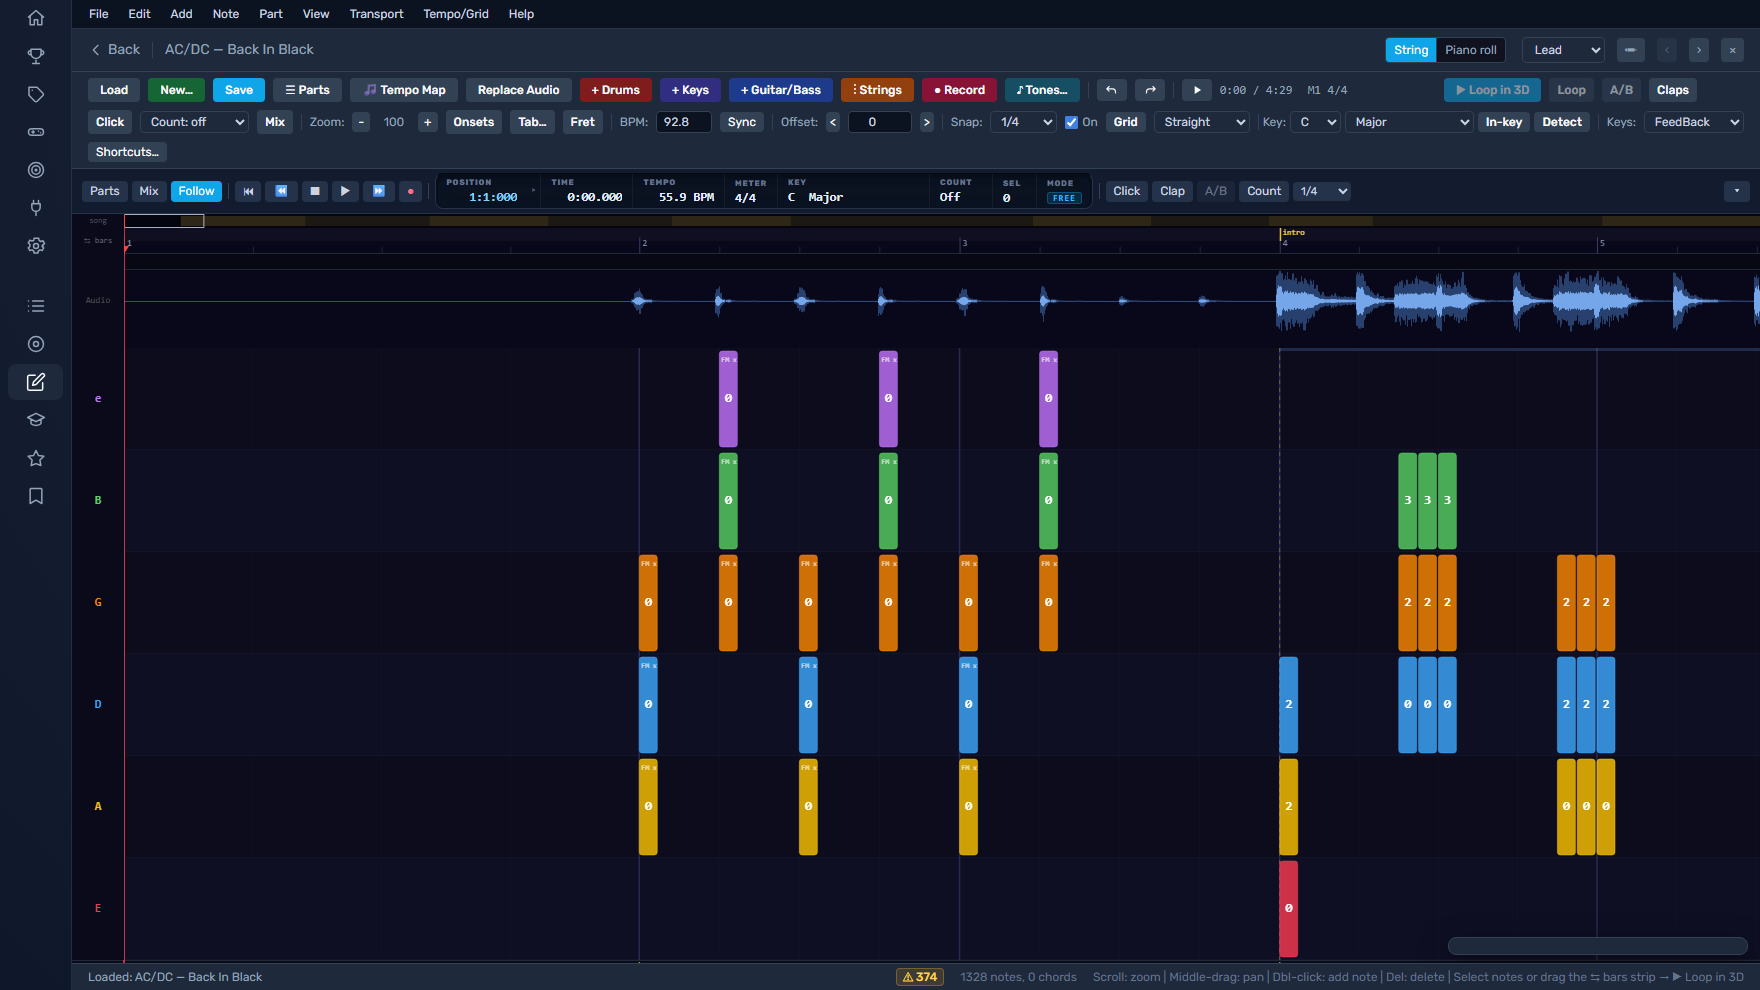
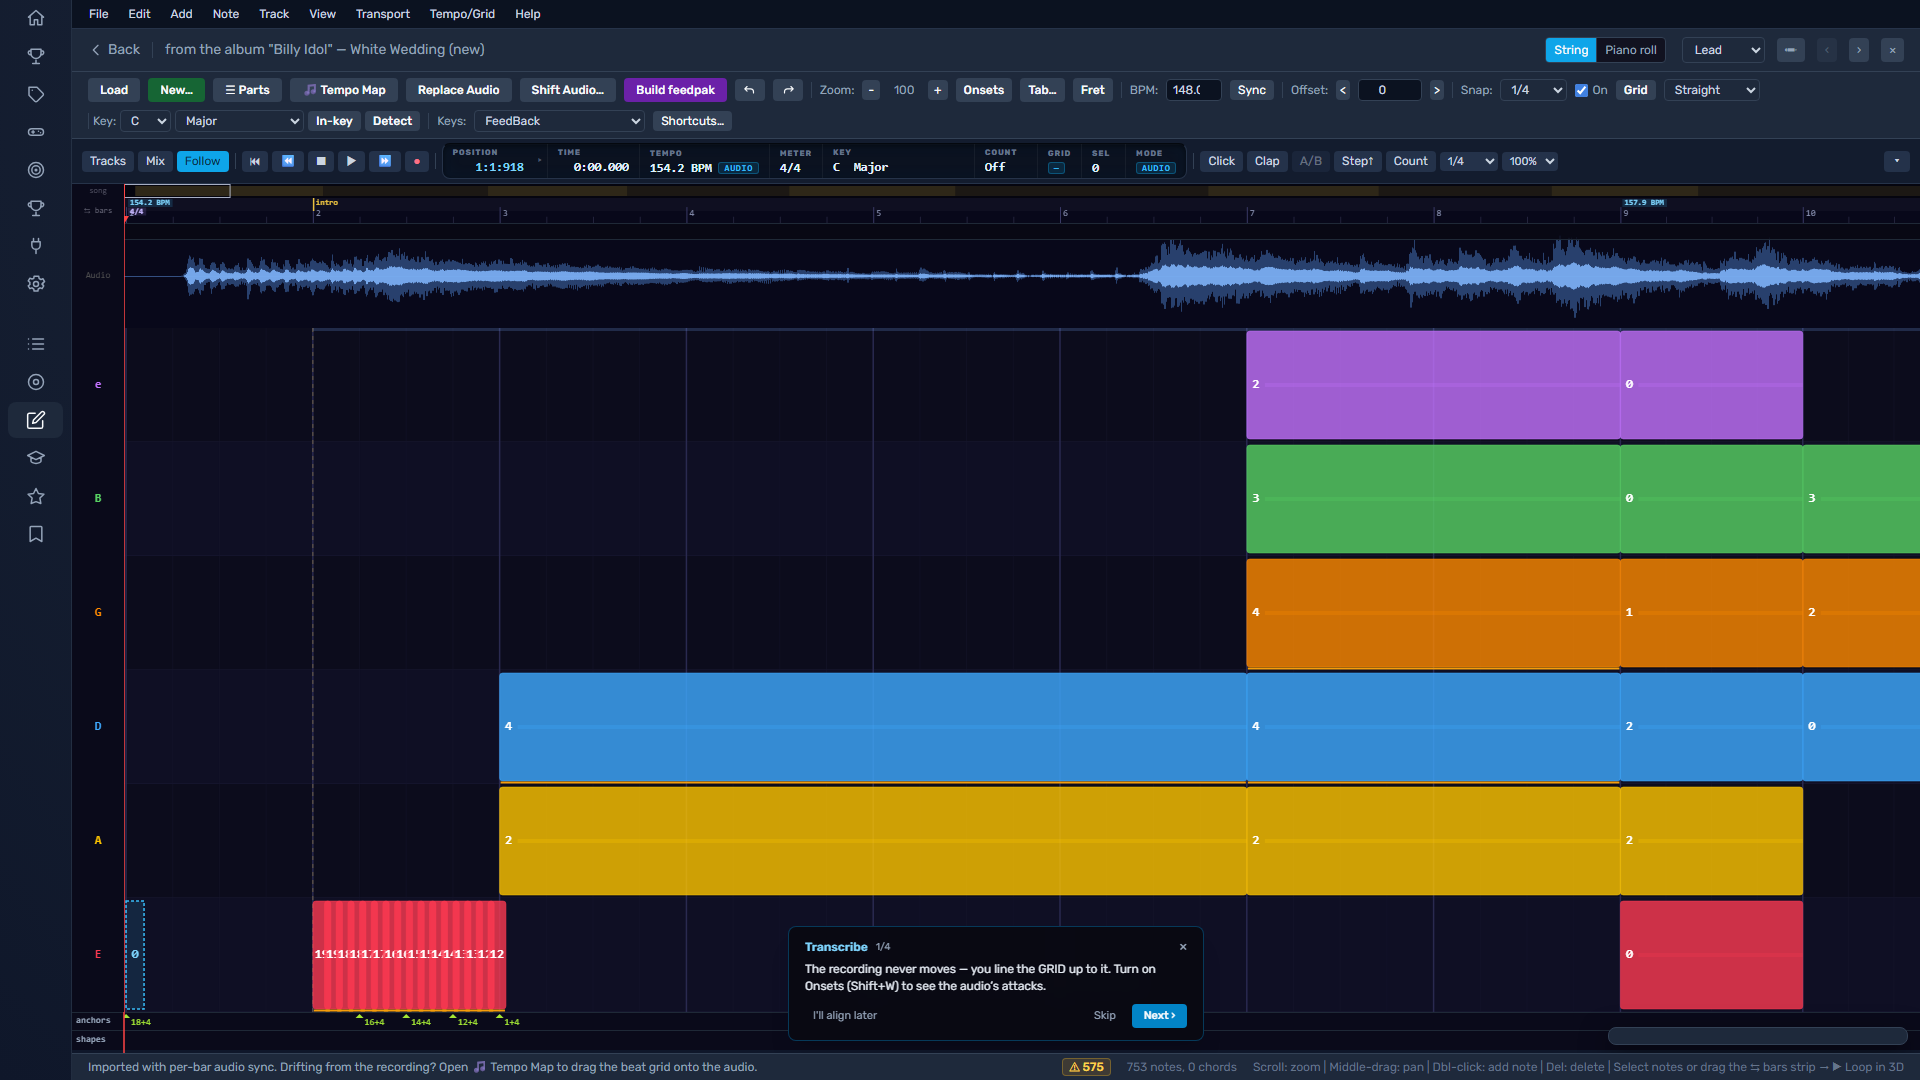
docs: the guide walks the whole feedpak journey — fresh screenshots, README landing page (#304)
* docs: the guide walks the whole feedpak journey — fresh screenshots, README landing page

Help ▸ User Guide restructured around the start-to-finish story:

- A six-step journey map up top (start → grid → notes → tracks → hear it
  → save/build), each step pointing at its section.
- §1 "Start a project" now showcases EVERY on-ramp: the start landing
  (Load vs Create New), all audio formats + YouTube, GP3-GP8 / MIDI /
  arrangement XML / feedpak-archive imports, audio+chart auto-sync (the
  recommended start), blank-canvas + arrangement chips, and the
  after-creation doors — File ▸ Import, Add ▸ Drums / Record MIDI,
  MusicXML keys (with authored hands), the stem manager, GoPlayAlong.
  Plus the MusicBrainz metadata helpers.
- §9 becomes "Save and build — the finish line": first-save picker,
  Build feedpak, what the pack carries, and a four-point pre-flight
  checklist.
- §10 shortcut table: the stale `T = Tempo Map` row corrected to the
  tool palette (`T,T` = Tempo Map).
- Fresh screenshots captured from current main against a real project
  (a stem + Guitar Pro import, per-bar audio sync): landing.png (new),
  import.png, workspace.png, notes.png. tempomap.png / drums.png kept
  (those views are unchanged).

README rewritten as the repo landing page: hero screenshot, User Guide
link before the contributor content, and a "What it does" that matches
what actually shipped (start-from-anything + auto-sync, tool palette +
[…]

diff --git a/docs/USER-GUIDE.md b/docs/USER-GUIDE.md
@@ -15,35 +15,68 @@ profiles in **Help ▸ Shortcut profile** or the shortcut panel (`?`).
 
 ![The Song Editor loaded with a song: the menu bar and toolbars up top, the timeline (waveform and colored note blocks per string) in the middle, the transport and inspector around it.](../assets/guide/workspace.png)
 
+**The whole journey, at a glance** — a feedpak goes from nothing to playable in
+six steps, and this guide follows them in order:
+
+1. **Start** (§1) — create a project from a recording, an existing chart, or both.
+2. **Line up the grid** (§6) — the tempo map fits bars and beats to the recording.
+3. **Chart the notes** (§4) — place, edit, and mark up every note and technique.
+4. **Build out the tracks** (§5, §7) — more parts, keys with hands, drums, studio stems.
+5. **Hear it** (§3) — guide claps, the metronome, loops, and the mixer console.
+6. **Save and build** (§9) — `Ctrl+S` while you work; **Build** writes the `.feedpak`.
+
 ---
 
 ## 1. Start a project
 
-You begin one of two ways:
+Opening the editor with nothing loaded lands you at the front door:
 
-- **From a recording** — open the editor, load an audio file, and you get an
-  empty timeline over the waveform. Set the tempo grid (Section 6) and start
-  placing notes.
-- **From an import** — bring in an existing chart and edit it. The editor reads
-  **Guitar Pro** (GP3–GP8), **MIDI** (with its tempo map), community
-  **arrangement XML**, **GoPlayAlong** sync sidecars, and existing
-  **`.feedpak`** / archive files. Every format normalizes into the same internal
-  model, so editing works the same regardless of where a chart came from.
+![The Song Editor start screen: Load an existing feedpak to edit, or Create New.](../assets/guide/landing.png)
 
-In **New…**, use **Add File** for audio, Guitar Pro, MIDI, or XML. Every audio
-source and every chart track appears in one table. Check the tracks to import,
-then choose one audio row in **Guide** as the recording the tempo map
-follows. You can add several audio files; they remain separate source tracks.
-The YouTube field adds another possible audio source.
+**Load…** opens a feedpak from your library to edit. **Create New** starts a
+project — and it takes almost anything as a starting point:
 
-![The Create New Arrangement dialog: add session files, review every imported track in one table, and choose a Guide audio source.](../assets/guide/import.png)
+- **A recording** — drop in an audio file (**MP3, WAV, FLAC, OGG, M4A, OPUS,
+  AAC, WEM**) or paste a **YouTube URL**. You get a timeline over the
+  waveform: set the grid (§6) and chart from scratch.
+- **An existing chart** — **Guitar Pro (GP3–GP8)**, **MIDI** (its tempo map
+  comes along), community **arrangement XML**, or an existing
+  **`.feedpak`/archive**. Every format normalizes into one internal model, so
+  editing works the same wherever the chart came from.
+- **Both at once** — the recommended start. Add one audio file *and* a chart
+  file; **auto-sync** then lines the imported chart up to the recording bar
+  by bar, so you begin from a chart that already follows the take instead of
+  a straight metronomic grid.
+- **Nothing at all** — pick your arrangements from the chips (Lead / Rhythm /
+  Bass / Keys / Drums…) and start with an empty timeline.
 
-Import lives under the **File** menu (Import ▸ …). MIDI and XML/GP imports keep
-their note data; a GoPlayAlong sidecar brings bar→time sync points only (no
-notes) — useful for lining a grid up fast.
+Everything you add lands in one table: every audio source and every track
+inside every chart file, each with its instrument and note count. Check the
+tracks you want as arrangements, and pick one audio row as the **Guide** —
+the recording the tempo map follows. Extra audio files stay available as
+separate source tracks.
+
+![The Create New Arrangement dialog: arrangement chips, a master audio and a Guitar Pro chart staged for import, the track table, and song details auto-filled.](../assets/guide/import.png)
+
+Song details (title, artist, album, art) auto-fill from the import where they
+can — **Find cover…**, **Identify from audio…**, and **Match…** fill in the
+rest from MusicBrainz. Then hit **Create & Open in Editor**.
+
+A few sources arrive through their own doors, any time after creation:
+
+- **File ▸ Import** — bring another GP / MIDI / XML chart into the open project.
+- **Add ▸ Track** — add **Drums** (from a chart or by hand) or **Record
+  MIDI** (play a take on a connected device; it becomes a keys track).
+- **Add Keys ▸ MusicXML** — a MusicXML score imports as a keys track and
+  keeps the score's own **left/right hand** assignments (§5).
+- **Studio stems** — after creating, load per-instrument stems (vocals,
+  bass, drums…) through the stem manager (§5) for isolated listening and
+  per-stem charting.
+- A **GoPlayAlong** sidecar brings bar→time sync points only (no notes) —
+  useful for lining a grid up fast.
 
 > **Autosave is not a thing.** Nothing touches your library until you **Build**
-> (Section 10). Save early with `Ctrl+S`.
+> (§9). Save early with `Ctrl+S`.
 
 ---
 
@@ -303,13 +336,28 @@ These live in the **Add** menu (Markers) and show in the inspector when selected
 
 ---
 
-## 9. Save and build
+## 9. Save and build — the finish line
 
-- **`Ctrl+S`** saves your working session.
-- **Build** assembles the finished **`.feedpak`** through the host's core
-  libraries and writes it to your library — this is the only step that changes
-  what the rest of the app sees. Build once the grid fits, the notes are placed,
-  and playback (guide claps against the recording) sounds right.
+- **`Ctrl+S`** saves your working session. For an exportable packed song, the
+  first save can ask where to keep an external copy when your browser supports
+  a file picker; otherwise it saves straight to the library. Later saves reuse
+  the chosen location.
+- **Build feedpak** (the toolbar button, or File ▸ Build feedpak) assembles
+  the finished **`.feedpak`** through the host's core libraries and writes it
+  to your library — this is the only step that changes what the rest of the
+  app sees. The pack carries everything you authored: every arrangement,
+  the tempo map, sections and phrases, techniques, keys notation with its
+  hand split, stems, tones, and art.
+
+**Ready to build?** A quick pre-flight:
+
+1. The grid follows the recording (§6) — the Map Health pill isn't complaining.
+2. Guide claps (`C`) against the recording sound tight where it matters.
+3. The lint flags you care about are addressed (they *advise*, never block).
+4. Song details are filled (title, artist, art) — they're the library card.
+
+Build again any time — rebuilding replaces the pack, and your working session
+stays editable.
 
 **Undo/redo is the safety net.** Every edit — including tempo moves, offset, and
 imports — is undoable (`Ctrl+Z` / `Ctrl+Y`). If something looks wrong, undo it.
@@ -329,7 +377,7 @@ you'll reach for constantly (FeedBack profile):
 | `F` | Edit fret | `0`–`9` | Set fret |
 | `↑` / `↓` | Move string | `Shift+↑`/`↓` | Move, keep pitch |
 | `Shift+R` | Resnap selection to grid | `Ctrl+D` | Duplicate selection |
-| `T` | Tempo Map mode | `W` | Show/hide waveform |
+| `T` | Tool palette (`T,T` = Tempo Map) | `W` | Show/hide waveform |
 | `Alt+B` | Loop A/B (audio ↔ guide) | `Shift+L` | Follow playhead |
 | `Shift+M` | Add section | `Shift+F` | Set anchor |
 

diff --git a/README.md b/README.md
@@ -1,36 +1,58 @@
 # Arrangement Editor
 
 The **Song Editor** plugin for [feedBack](https://github.com/got-feedback/feedback)
-(plugin id `editor`) — a DAW-style timeline editor for building and editing
-feedpak arrangements: import Guitar Pro tabs, MIDI, or community XML; sync a
-chart to a recording; author and tune every note; and build the result back
-into a `.feedpak` package the rest of the ecosystem plays.
+(plugin id `editor`) — a DAW-style timeline editor that turns a recording into
+a playable feedBack chart: import a tab or start from audio, line the grid up
+to the take, author every note, and build a `.feedpak` the whole ecosystem
+plays.
+
+![The Song Editor: waveform, beat grid, and a synced Guitar Pro chart on the string lanes.](assets/guide/workspace.png)
+
+**New here?** The **[User Guide](docs/USER-GUIDE.md)** (also in-app under
+Help ▸ User Guide) walks the whole journey — create a project from a
+recording, a chart, or both; fit the tempo map; chart the notes; add tracks,
+stems, and drums; mix; and build the finished feedpak.
 
 It is the largest plugin in the ecosystem. If you are here to work on it,
 read this top-to-bottom once — the architecture section saves real time.
 
 ## What it does
 
-- **Import** — Guitar Pro (GP3–GP8), MIDI (with tempo-map import), community
-  arrangement XML, MusicXML-adjacent sources, GoPlayAlong sync sidecars, and
-  existing `.feedpak`/archive files, all normalized into one internal model.
-- **Edit** — a canvas timeline with per-part views: String view (lanes per
-  string), a piano roll (with resolver-assisted fretted authoring), a drum
-  piece-lane grid, and a read-only engraved tab preview. Undo/redo is the
-  edit contract: every mutation is a command with exec/rollback.
+- **Start from anything** — audio (MP3/WAV/FLAC/OGG/M4A/OPUS/AAC/WEM, or a
+  YouTube URL), Guitar Pro (GP3–GP8), MIDI (tempo map included), community
+  arrangement XML, MusicXML keys scores, GoPlayAlong sync sidecars, existing
+  `.feedpak`/archive files — or a blank timeline. Audio + chart together get
+  **auto-sync**: the imported chart lines up to the recording bar by bar.
+- **Edit like a DAW** — a canvas timeline with per-part views: String view
+  (lanes per string), a piano roll (with resolver-assisted fretted
+  authoring), a drum piece-lane grid, and a live engraved tab/score view.
+  A Logic-style **tool palette** (`T`: pointer, pencil/draw, eraser, marquee,
+  mute, scissors), four **shortcut profiles** (FeedBack / Logical / Cableton /
+  Legacy-EOF), a searchable command palette (`Ctrl+K`), and a customizable
+  canvas (grid strength, brightness, hue). Undo/redo is the edit contract:
+  every mutation is a command with exec/rollback.
 - **Time** — a beat-primary tempo map (`beatOf`/`timeOf` over one anchor
   set): Tempo Map mode fits the grid to a recording (sync points, tap tempo,
-  metric modulation, beat-lock), snap rides the same converter (grid, onset,
-  swing), and loop regions/bookmarks/count-in ride the transport.
-  The authoritative musical ruler fits bars and beats to fixed source audio;
-  authored musical content aligns through that ruler. See
+  metric modulation, beat-lock, assisted mapping, Map Health), snap rides the
+  same converter (grid, onset, swing), and loop regions/bookmarks/count-in
+  ride the transport. The authoritative musical ruler fits bars and beats to
+  fixed source audio; authored musical content aligns through that ruler. See
   [`docs/TEMPO-MAPPING-DESIGN.md`](docs/TEMPO-MAPPING-DESIGN.md) for the four
   timing domains, marker model, assisted mapping, and audition-speed rules.
-- **Companion strips** — a fretboard strip for fretted parts (candidate
-  positions from the suggest-position resolver, click to assign) and a drum
-  kit / pad strip for drum parts (GM-mapped, MIDI-monitor capable).
-- **Advisory lints** — drum limb feasibility and fretted playability checks
-  that name physical questions without ever blocking or auto-fixing.
+- **Tracks, stems, and the mixer** — tracks are first-class objects in a
+  persistent track column: rename, reorder, fold into folders, pair a
+  transcription with the studio stem it was charted against. Load
+  per-instrument **stems** and chart against any of them in isolation. The
+  **mixer console** (`Shift+C`) is vertical channel strips with live meters
+  over SOURCE/GUIDE/CLICK buses and a MASTER output — every fader unity with
+  +10 dB of headroom.
+- **Keys with hands** — MusicXML imports keep the score's left/right hand
+  split; hands are authorable per note or stamped by split point, shaded on
+  the roll, and drive the grand-staff notation's hand split.
+- **Companion strips & lints** — a fretboard strip for fretted parts
+  (candidate positions from the suggest-position resolver, click to assign),
+  a drum kit / pad strip (GM-mapped, MIDI-monitor capable), and advisory
+  playability/limb lints that name physical questions without ever blocking.
 - **Build** — assembles the finished `.feedpak` through the host's core
   libraries, so output packages are compatible everywhere.
 

diff --git a/CHANGELOG.md b/CHANGELOG.md
@@ -7,6 +7,20 @@ and this project adheres to [Semantic Versioning](https://semver.org/spec/v2.0.0
 
 ## [Unreleased]
 
+### Changed
+
+- **Docs refresh — the guide walks the whole journey.** The User Guide
+  (Help ▸ User Guide) opens with a six-step journey map, and §1 now showcases
+  every way to start a feedpak (audio formats + YouTube, GP/MIDI/XML,
+  MusicXML keys, stems, blank + arrangement chips, GoPlayAlong) through to a
+  pre-flight-checklisted §9 Save & Build. Fresh screenshots captured from
+  current main (start landing, the create dialog with a real audio+chart
+  import staged, the synced workspace, note editing); the `T` shortcut row
+  corrected to the tool palette (`T,T` = Tempo Map). README rewritten as the
+  repo landing page: hero shot, User Guide link up top, and a feature list
+  matching what shipped (track sessions + mixer console, click tools, keys
+  hands, canvas appearance, stems).
+
 ### Added
 - **The master mix is a channel strip in the mixer.** Every audio source now has
   a vertical strip in the mixer drawer — the master mix leads the audio band